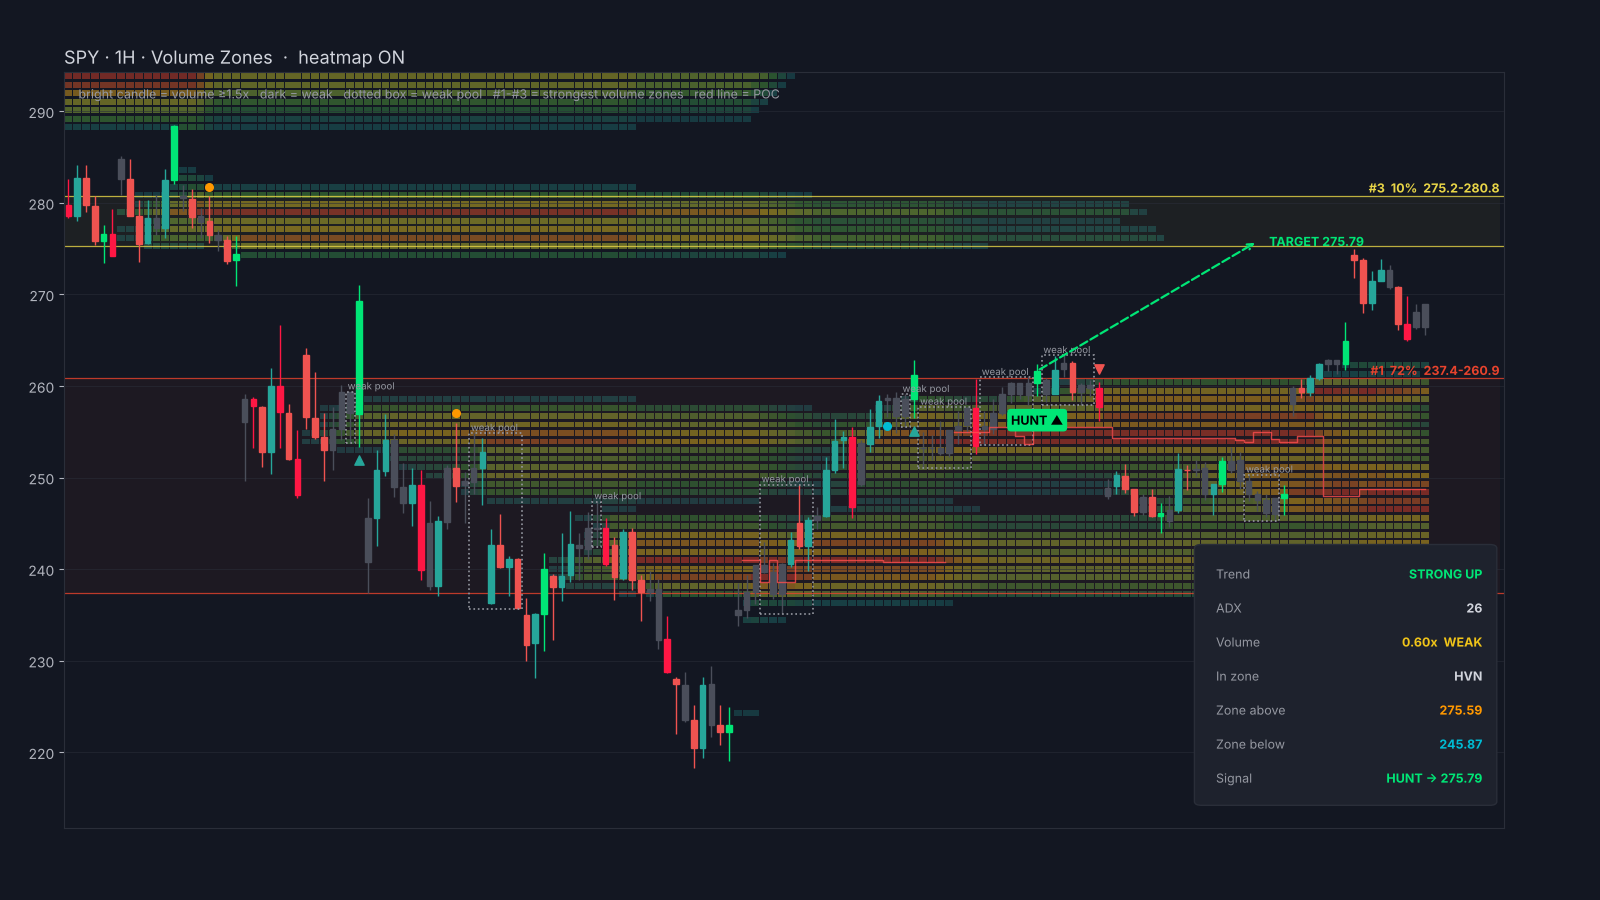
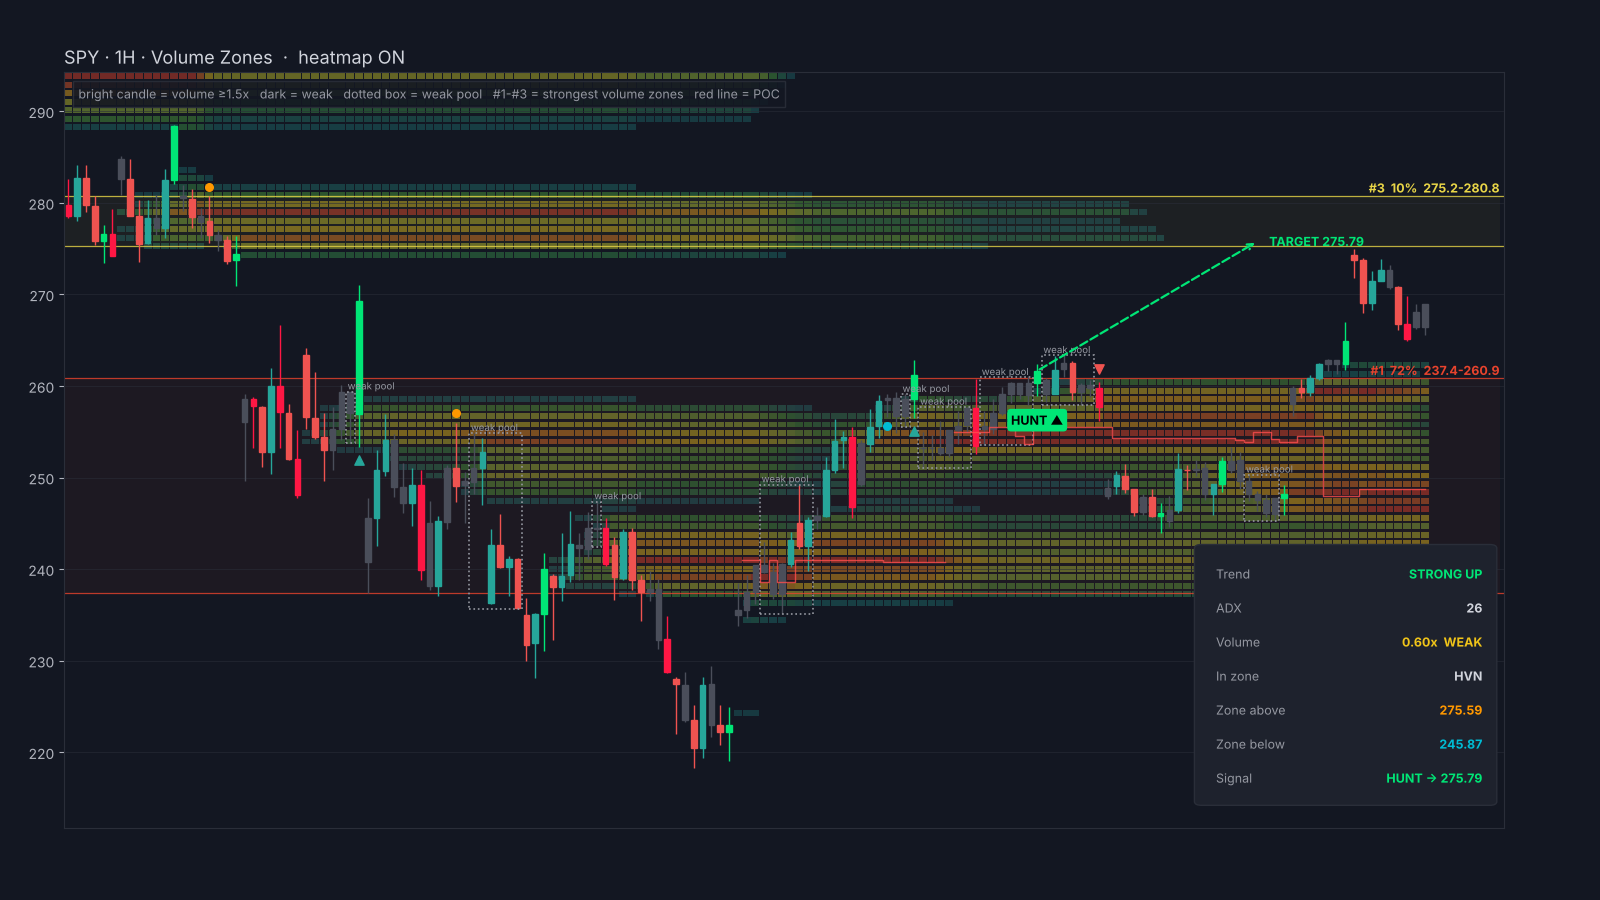
Add six heatmap theme mockups
Claude-Session: https://claude.ai/code/session_01LqVdPjKMY9JTEX1zUaxwh2

Changed region(s): [[0.0312, 0.0933, 0.5, 0.1244]]

diff --git a/reports/make_styles.py b/reports/make_styles.py
@@ -179,7 +179,7 @@ def combined(with_heat, fname):
         ax.text(x0, y0 - .045 * k - .03, a, transform=ax.transAxes, color="#9598a1", fontsize=9, zorder=8)
         ax.text(x0 + .185, y0 - .045 * k - .03, b, transform=ax.transAxes, color=c, fontsize=9, ha="right", weight="bold", zorder=8)
     ax.text(.01, .965, "bright candle = volume ≥1.5x   dark = weak   dotted box = weak pool   #1-#3 = strongest volume zones   red line = POC",
-            transform=ax.transAxes, color="#9598a1", fontsize=9, zorder=8)
+            transform=ax.transAxes, color="#9598a1", fontsize=9, zorder=8, bbox=dict(fc=BG, ec=GR, alpha=.9))
     fig.savefig(OUT / fname, dpi=100, facecolor=BG); plt.close(fig)
 
 
@@ -189,3 +189,63 @@ tot = sum(z[2] for z in zones)
 combined(False, "E_combined.png")
 combined(True, "E_combined_heat.png")
 print("ok2")
+
+
+# ------------------------------------------------------------------ F: heatmap themes
+from scipy.ndimage import gaussian_filter
+from matplotlib.colors import to_rgba
+THEMES = {
+    "F1_thermal":   dict(name="Thermal (inferno)", colors=["#1b0c41", "#6a176e", "#c73e4c", "#f98c0a", "#fcffa4"], mode="smooth"),
+    "F2_ice":       dict(name="Ice / Bookmap blue", colors=["#0b1f3a", "#0f4c75", "#1fa2c7", "#7fe3ff", "#ffffff"], mode="smooth"),
+    "F3_tv_vpvr":   dict(name="TradingView VPVR (teal → gold)", colors=["#1d4f5a", "#2b7a78", "#3aa59a", "#c9a227", "#f2d16b"], mode="strips"),
+    "F4_contours":  dict(name="Contours only (outline of liquidity)", colors=["#5d6aa8", "#9b7ff2", "#f2c14e", "#ff5d5d"], mode="contour"),
+    "F5_purple":    dict(name="Mono purple fade (alpha = volume)", colors=["#b388ff"], mode="alpha"),
+    "F6_dots":      dict(name="Liquidity dots (size + color = volume)", colors=["#2a6f97", "#3d8b5a", "#e8c547", "#e8432d"], mode="dots"),
+}
+edges_f = np.linspace(lo, hi, 120); hgt_f = edges_f[1] - edges_f[0]
+gf, _ = vzones.heatmap(r.iloc[s - 120:e], 120, edges=edges_f); gf = np.nan_to_num(gf[120:])
+
+
+def themed(key, th):
+    fig, ax = base(f"Heatmap theme · {th['name']}")
+    cm = LinearSegmentedColormap.from_list(key, th["colors"] if len(th["colors"]) > 1 else ["#000000", th["colors"][0]])
+    ext = (-.5, N - .5, lo, hi)
+    if th["mode"] == "smooth":
+        sm = gaussian_filter(gf, (1.0, 1.2)); img = cm(sm.T); img[..., 3] = np.clip((sm.T - .25) / .75, 0, 1) * .75
+        ax.imshow(img, origin="lower", aspect="auto", extent=ext, interpolation="bilinear", zorder=0)
+    elif th["mode"] == "strips":
+        for i in range(N):
+            for k in np.flatnonzero(gf[i] >= .4):
+                ax.add_patch(Rectangle((i - .45, edges_f[k] + hgt_f * .2), .9, hgt_f * .6, color=cm((gf[i, k] - .4) / .6), alpha=.6, lw=0, zorder=1))
+    elif th["mode"] == "contour":
+        X, Y = np.meshgrid(np.arange(N), (edges_f[:-1] + edges_f[1:]) / 2)
+        ax.contour(X, Y, gaussian_filter(gf, 1.2).T, levels=[.4, .6, .8, .95], colors=th["colors"], linewidths=[.8, 1, 1.3, 1.8], zorder=1)
+    elif th["mode"] == "alpha":
+        rgba = np.zeros((*gf.T.shape, 4)); rgba[..., :3] = to_rgba(th["colors"][0])[:3]
+        rgba[..., 3] = np.clip((gaussian_filter(gf, .8).T - .3) / .7, 0, 1) ** 1.5 * .7
+        ax.imshow(rgba, origin="lower", aspect="auto", extent=ext, interpolation="bilinear", zorder=0)
+    elif th["mode"] == "dots":
+        for i in range(0, N, 2):
+            ks = np.flatnonzero(gf[i] >= .5)[::2]
+            ax.scatter(np.full(len(ks), i), edges_f[ks] + hgt_f / 2, s=(gf[i, ks] ** 3) * 28, c=[cm((v - .5) / .5) for v in gf[i, ks]], alpha=.75, lw=0, zorder=1)
+    for rank, (zl, zh, zv) in enumerate(zones, 1):
+        c = ["#e8432d", "#e8a33d", "#e8d547"][rank - 1]
+        ax.hlines([zl, zh], -.5, N + 8, color=c, lw=.9, alpha=.8, zorder=2)
+        ax.text(N + 7.5, zh, f"#{rank}  {zv / tot * 100:.0f}%", color=c, ha="right", va="bottom", fontsize=9, weight="bold", zorder=6)
+    candles(ax, regime_color); signals(ax, labels=False)
+    # colour scale legend
+    cax = fig.add_axes([0.06, 0.885, 0.18, 0.012]); cax.imshow(np.linspace(0, 1, 256)[None], aspect="auto", cmap=cm); cax.set_axis_off()
+    fig.text(0.06, 0.902, "low volume", color="#9598a1", fontsize=8); fig.text(0.24, 0.902, "high", color="#9598a1", fontsize=8, ha="right")
+    fig.savefig(OUT / f"{key}.png", dpi=100, facecolor=BG); plt.close(fig)
+
+
+for k, th in THEMES.items():
+    themed(k, th)
+# contact sheet
+from matplotlib.image import imread
+fig, axs = plt.subplots(3, 2, figsize=(16, 13.5), facecolor=BG)
+for a, k in zip(axs.flat, THEMES):
+    a.imshow(imread(OUT / f"{k}.png")[30:860, 40:1520]); a.set_axis_off()
+    a.set_title(f"{k.split('_')[0]} · {THEMES[k]['name']}", color=TX, fontsize=12)
+fig.tight_layout(); fig.savefig(OUT / "F_all_themes.png", dpi=90, facecolor=BG)
+print("ok3")
